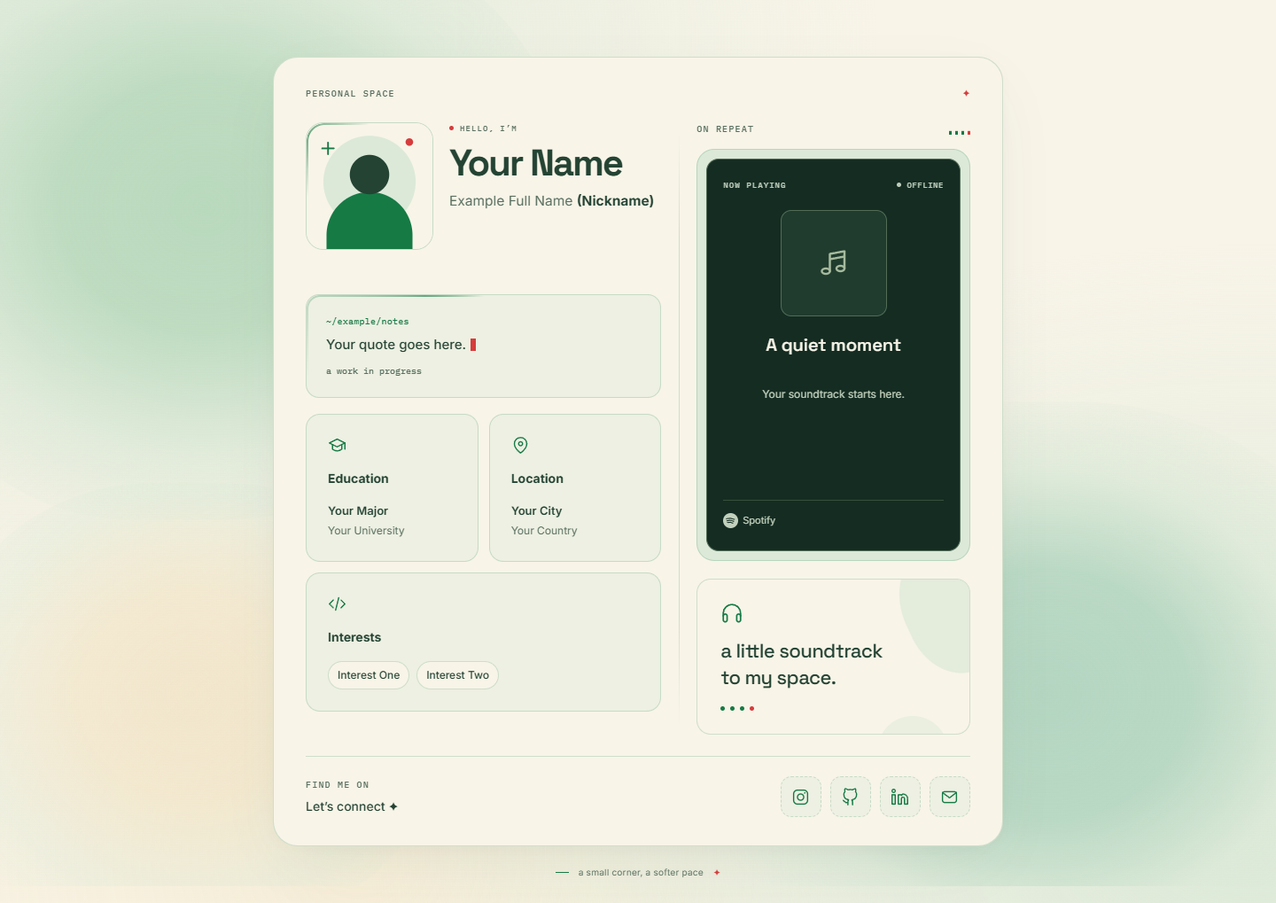
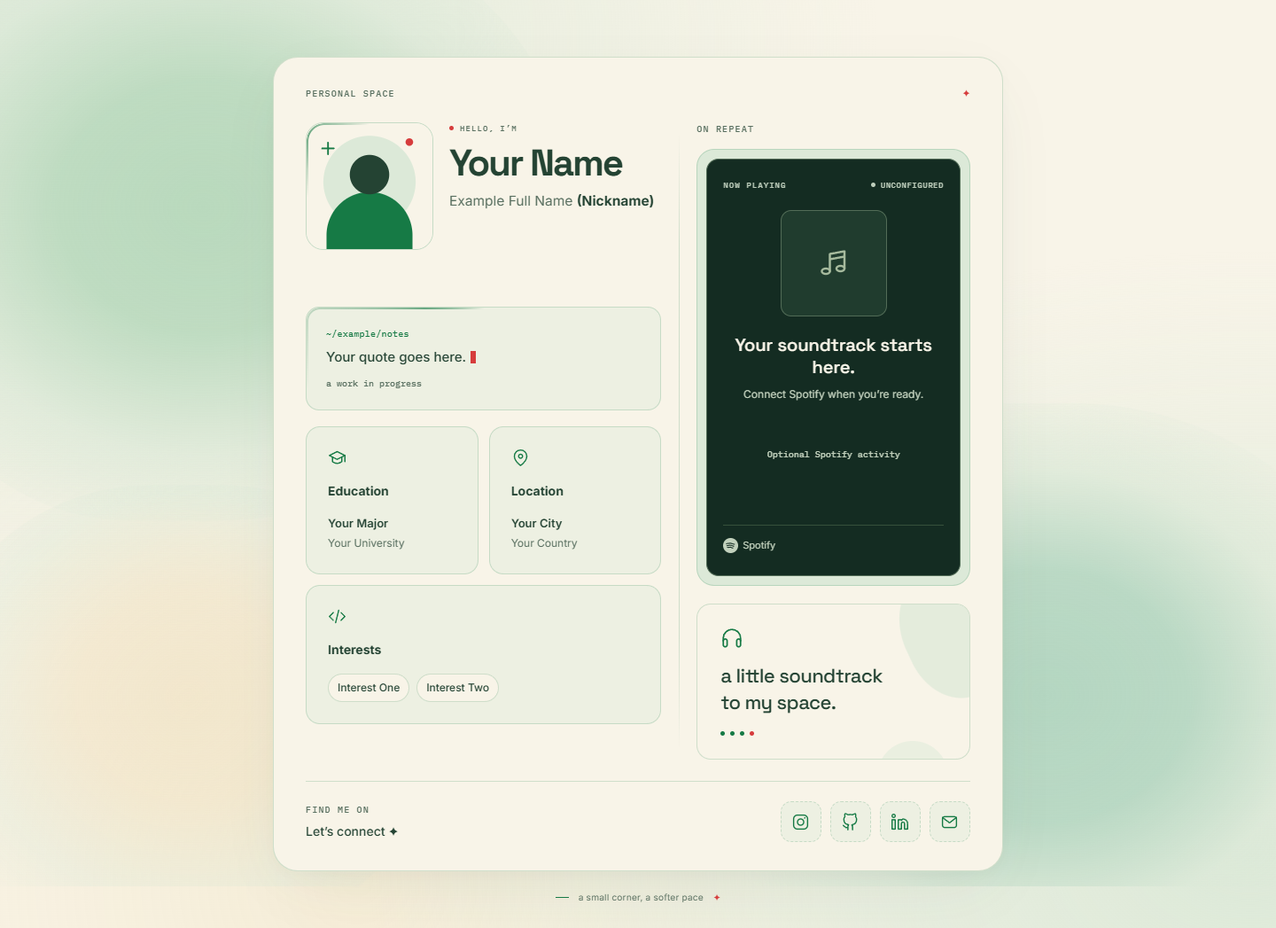
feat: add optional Spotify activity widget to template

diff --git a/src/scripts/spotify-now-playing.ts b/src/scripts/spotify-now-playing.ts
@@ -1,12 +1,16 @@
 import { emptyPlayback, FRESHNESS_MS, isFresh, parseNowPlaying, playbackProgress, type NowPlaying } from '../lib/spotify-now-playing';
 
+const mounts = new WeakMap<HTMLElement, () => void>();
+
 export function mountNowPlaying(root: HTMLElement): () => void {
-  // Disabled templates keep their server-rendered placeholder without polling.
   if (root.dataset.spotifyEnabled !== 'true') return () => {};
+  const mounted = mounts.get(root);
+  if (mounted) return mounted;
   const element = <T extends HTMLElement>(selector: string) => root.querySelector<T>(selector)!;
   const card = element('[data-live-card]');
   const stage = element('[data-track-stage]');
   const status = element('[data-status-text]');
+  const activity = element('[data-activity-detail]');
   const link = element<HTMLAnchorElement>('[data-spotify-link]');
   const progress = element('[data-progress]');
   const bar = element('[data-progress-bar]');
@@ -24,6 +28,7 @@ export function mountNowPlaying(root: HTMLElement): () => void {
   // failure / Retry-After imposes a deadline across tab visibility changes.
   let retryNotBefore = 0;
   let trackKey = '';
+  let unconfigured = false;
   const animations = new Set<Animation>();
   const formatTime = (ms: number) => `${Math.floor(ms / 60_000)}:${String(Math.floor(ms / 1000) % 60).padStart(2, '0')}`;
 
@@ -32,9 +37,12 @@ export function mountNowPlaying(root: HTMLElement): () => void {
       render(emptyPlayback('unavailable', Date.now()));
       return;
     }
-    const fresh = isFresh(snapshot, Date.now()) && !document.hidden;
+    const fresh = (snapshot.status === 'unconfigured' || isFresh(snapshot, Date.now())) && !document.hidden;
     card.dataset.status = fresh ? snapshot.status : 'unavailable';
-    status.textContent = fresh ? snapshot.status === 'playing' ? 'LIVE' : snapshot.status === 'unavailable' ? 'UNAVAILABLE' : 'OFFLINE' : 'UNAVAILABLE';
+    const state = card.dataset.status as NowPlaying['status'];
+    root.dataset.playbackStatus = state;
+    status.textContent = state === 'playing' ? 'LIVE' : state.toUpperCase();
+    activity.textContent = state === 'playing' ? 'Listening on Spotify' : state === 'paused' ? 'Playback paused' : state === 'offline' ? 'A quiet moment' : state === 'unconfigured' ? 'Optional Spotify activity' : 'Activity unavailable';
     const value = fresh ? playbackProgress(snapshot, Date.now()) : null;
     progress.hidden = value === null;
     link.hidden = !fresh || !snapshot.track;
@@ -72,9 +80,9 @@ export function mountNowPlaying(root: HTMLElement): () => void {
       outgoingImage.setAttribute('aria-hidden', 'true');
       img.before(outgoingImage);
     }
-    find('[data-track-title]').textContent = data.track?.title ?? 'A quiet moment';
+    find('[data-track-title]').textContent = data.track?.title ?? (data.status === 'offline' ? 'Not listening right now' : data.status === 'unconfigured' ? 'Your soundtrack starts here.' : 'Spotify is taking a break.');
     find('[data-track-title]').title = data.track?.title ?? '';
-    find('[data-track-artist]').textContent = data.track?.artists.join(', ') ?? (data.status === 'offline' ? 'Nothing playing right now.' : 'Listening status is unavailable.');
+    find('[data-track-artist]').textContent = data.track?.artists.join(', ') ?? (data.status === 'offline' ? 'probably building something.' : data.status === 'unconfigured' ? 'Connect Spotify when you’re ready.' : 'please try again later.');
     find('[data-track-artist]').title = data.track?.artists.join(', ') ?? '';
     const album = find('[data-track-album]');
     album.textContent = data.track?.album ?? '';
@@ -116,7 +124,9 @@ export function mountNowPlaying(root: HTMLElement): () => void {
   }
 
   function render(data: NowPlaying) {
-    snapshot = isFresh(data, Date.now()) ? data : emptyPlayback('unavailable', data.fetchedAt, data.retryAfterSeconds);
+    snapshot = data.status === 'unconfigured' || isFresh(data, Date.now()) ? data : emptyPlayback('unavailable', data.fetchedAt, data.retryAfterSeconds);
+    unconfigured = snapshot.status === 'unconfigured';
+    if (unconfigured) clearInterval(progressTimer);
     paintTrack(snapshot);
     if (snapshot.track) link.href = snapshot.track.spotifyUrl;
     else link.removeAttribute('href');
@@ -125,11 +135,11 @@ export function mountNowPlaying(root: HTMLElement): () => void {
 
   function schedule(delay: number) {
     clearTimeout(pollTimer);
-    if (!disposed && !document.hidden) pollTimer = setTimeout(poll, delay);
+    if (!disposed && !document.hidden && !unconfigured) pollTimer = setTimeout(poll, delay);
   }
 
   async function poll() {
-    if (disposed || document.hidden || controller) return;
+    if (disposed || document.hidden || controller || unconfigured) return;
     if (Date.now() < retryNotBefore) { schedule(retryNotBefore - Date.now()); return; }
     retryNotBefore = 0;
     const active = new AbortController();
@@ -178,9 +188,9 @@ export function mountNowPlaying(root: HTMLElement): () => void {
     clearInterval(progressTimer);
     controller?.abort();
     controller = null;
-    render(emptyPlayback('unavailable', Date.now()));
-    if (!document.hidden && !disposed) {
-      progressTimer = setInterval(updateProgress, 1000);
+    if (!unconfigured) render(emptyPlayback('unavailable', Date.now()));
+    if (!document.hidden && !disposed && !unconfigured) {
+      progressTimer = setInterval(updateProgress, 250);
       const remaining = retryNotBefore - Date.now();
       if (remaining > 0) schedule(remaining);
       else void poll();
@@ -189,6 +199,7 @@ export function mountNowPlaying(root: HTMLElement): () => void {
 
   function cleanup(preserveRestore = false) {
     disposed = true;
+    mounts.delete(root);
     clearTimeout(pollTimer);
     clearInterval(progressTimer);
     controller?.abort();
@@ -211,6 +222,7 @@ export function mountNowPlaying(root: HTMLElement): () => void {
   document.addEventListener('astro:before-swap', beforeSwap);
   window.addEventListener('pagehide', pageHide);
   window.addEventListener('pageshow', pageShow);
-  if (!document.hidden) { progressTimer = setInterval(updateProgress, 1000); void poll(); }
+  if (!document.hidden) { progressTimer = setInterval(updateProgress, 250); void poll(); }
+  mounts.set(root, cleanup);
   return cleanup;
 }

diff --git a/tests/browser/spotify-activity.spec.ts b/tests/browser/spotify-activity.spec.ts
@@ -1,0 +1,78 @@
+import { test, expect, type Page } from '@playwright/test';
+
+const title = '音楽と小さな世界 🎵 A very long Unicode song title '.repeat(8);
+const artworkUrl = 'https://i.scdn.co/image/abc123';
+const trackUrl = 'https://open.spotify.com/track/1234567890123456789012';
+
+async function mockActivity(page: Page, state: string) {
+  await page.route('**/', async route => {
+    if (route.request().resourceType() !== 'document') return route.continue();
+    const response = await route.fetch();
+    const body = (await response.text()).replace('data-spotify-enabled="false"', 'data-spotify-enabled="true"');
+    await route.fulfill({ response, body });
+  });
+  await page.route(artworkUrl, route => route.fulfill({ contentType: 'image/svg+xml', body:
+    '<svg xmlns="http://www.w3.org/2000/svg" width="120" height="120"><rect width="120" height="120" fill="#a7bda3"/><circle cx="60" cy="60" r="35" fill="#142c22"/><circle cx="60" cy="60" r="8" fill="#f7f1e3"/></svg>' }));
+  await page.route('**/api/spotify/now-playing', route => {
+    const track = state === 'playing' || state === 'paused' ? {
+      title, artists: ['Example Artist', '歌手 二'], album: 'An Example Album', artworkUrl, spotifyUrl: trackUrl,
+    } : null;
+    return route.fulfill({ status: state === 'unavailable' ? 503 : 200, json: {
+      status: state, track, progressMs: track ? 12000 : null, durationMs: track ? 180000 : null,
+      fetchedAt: Date.now(), retryAfterSeconds: 30,
+    } });
+  });
+}
+
+async function enter(page: Page) {
+  await page.goto('/');
+  await page.getByRole('button', { name: 'Enter my space' }).click();
+  await expect(page.locator('html')).toHaveAttribute('data-entry', 'entered');
+}
+
+for (const state of ['playing', 'paused', 'offline', 'unavailable']) {
+  test(`activity ${state} has accurate copy and animations`, async ({ page }, info) => {
+    await mockActivity(page, state);
+    await enter(page);
+    await expect(page.locator('[data-status-text]')).toHaveText(state === 'playing' ? 'LIVE' : state.toUpperCase());
+    const active = state === 'playing' || state === 'paused';
+    await expect(page.locator('[data-progress]')).toBeVisible({ visible: active });
+    await expect(page.locator('[data-spotify-link]')).toBeVisible({ visible: active });
+    await expect(page.locator('.live-dot')).toHaveCSS('animation-name', state === 'playing' ? 'live-pulse' : 'none');
+    await expect(page.locator('.equalizer')).toHaveCSS('visibility', state === 'playing' ? 'visible' : 'hidden');
+    if (active) {
+      await expect(page.locator('[data-artwork]:not([data-outgoing] *)')).toBeVisible();
+      await expect(page.locator('[data-track-artist]').last()).toHaveText('Example Artist, 歌手 二');
+      await expect(page.locator('[data-spotify-link]')).toHaveAttribute('href', trackUrl);
+      await expect(page.locator('[data-activity-detail]')).toHaveText(state === 'playing' ? 'Listening on Spotify' : 'Playback paused');
+    } else {
+      await expect(page.locator('[data-track-title]').last()).toHaveText(state === 'offline' ? 'Not listening right now' : 'Spotify is taking a break.');
+      await expect(page.locator('[data-track-artist]').last()).toHaveText(state === 'offline' ? 'probably building something.' : 'please try again later.');
+    }
+    await page.screenshot({ path: info.outputPath(`activity-${state}.png`), fullPage: true });
+  });
+}
+
+for (const width of [320, 390, 768, 1440]) {
+  test(`long Unicode activity fits ${width}px`, async ({ page }, info) => {
+    await page.setViewportSize({ width, height: 1000 });
+    await mockActivity(page, 'playing');
+    await enter(page);
+    await expect(page.locator('[data-status-text]')).toHaveText('LIVE');
+    await expect(page.locator('[data-track-title]').last()).toContainText('音楽');
+    expect(await page.evaluate(() => document.documentElement.scrollWidth <= window.innerWidth)).toBe(true);
+    const image = await page.locator('[data-artwork]:not([data-outgoing] *)').boundingBox();
+    expect(image).not.toBeNull();
+    expect(image!.width).toBe(image!.height);
+    await page.screenshot({ path: info.outputPath(`activity-${width}.png`), fullPage: true });
+  });
+}
+
+test('reduced motion disables LIVE pulse and progress transitions', async ({ page }) => {
+  await page.emulateMedia({ reducedMotion: 'reduce' });
+  await mockActivity(page, 'playing');
+  await enter(page);
+  await expect(page.locator('[data-status-text]')).toHaveText('LIVE');
+  await expect(page.locator('.live-dot')).toHaveCSS('animation-name', 'none');
+  await expect(page.locator('[data-progress-fill]')).toHaveCSS('transition-duration', '0s');
+});

diff --git a/src/lib/spotify-now-playing.ts b/src/lib/spotify-now-playing.ts
@@ -1,7 +1,7 @@
 /** Public contract only. This module is safe to share with the browser. */
 export const FRESHNESS_MS = 45_000;
 export interface NowPlaying {
-  status: 'playing' | 'paused' | 'offline' | 'unavailable';
+  status: 'playing' | 'paused' | 'offline' | 'unavailable' | 'unconfigured';
   track: {
     title: string;
     artists: string[];
@@ -30,11 +30,12 @@ export function spotifyArtworkUrl(value: unknown): string | null {
   return value;
 }
 
-export function emptyPlayback(status: 'offline' | 'unavailable', now: number, retryAfterSeconds = 30): NowPlaying {
+export function emptyPlayback(status: 'offline' | 'unavailable' | 'unconfigured', now: number, retryAfterSeconds = 30): NowPlaying {
   return { status, track: null, progressMs: null, durationMs: null, fetchedAt: now, retryAfterSeconds };
 }
 
-const text = (value: unknown): string => typeof value === 'string' ? value.trim().slice(0, 300) : '';
+// Slice by Unicode code point so a long title never ends in half a surrogate pair.
+const text = (value: unknown): string => typeof value === 'string' ? Array.from(value.trim()).slice(0, 300).join('') : '';
 const milliseconds = (value: unknown): value is number => Number.isSafeInteger(value) && (value as number) >= 0;
 
 /** Allowlist fields rather than passing a private Spotify response to visitors. */
@@ -43,7 +44,8 @@ export function sanitizePlayback(value: unknown, now: number): NowPlaying {
   const data = value as Record<string, any>;
   if (data.device?.is_private_session === true) return emptyPlayback('offline', now);
   if (typeof data.is_playing !== 'boolean') return emptyPlayback('unavailable', now);
-  if (!data.item) return emptyPlayback(data.is_playing ? 'unavailable' : 'offline', now);
+  if (data.item === null && data.is_playing === false && data.currently_playing_type !== 'ad' && data.currently_playing_type !== 'episode') return emptyPlayback('offline', now);
+  if (!data.item || typeof data.item !== 'object') return emptyPlayback('unavailable', now);
   const item = data.item;
   if (data.currently_playing_type !== 'track' || item.type !== 'track' || item.is_local === true) return emptyPlayback('unavailable', now);
   const url = spotifyTrackUrl(item.external_urls?.spotify);
@@ -77,11 +79,14 @@ export function playbackProgress(data: NowPlaying, now: number): number | null {
 export function parseNowPlaying(value: unknown): NowPlaying | null {
   if (!value || typeof value !== 'object') return null;
   const data = value as NowPlaying;
-  if (!['playing', 'paused', 'offline', 'unavailable'].includes(data.status) || !Number.isFinite(data.fetchedAt) ||
+  if (!['playing', 'paused', 'offline', 'unavailable', 'unconfigured'].includes(data.status) || !Number.isFinite(data.fetchedAt) ||
       !Number.isFinite(data.retryAfterSeconds) || data.retryAfterSeconds < 0) return null;
-  if (data.status === 'offline' || data.status === 'unavailable') return emptyPlayback(data.status, data.fetchedAt, data.retryAfterSeconds);
+  if (data.status === 'offline' || data.status === 'unavailable' || data.status === 'unconfigured') return emptyPlayback(data.status, data.fetchedAt, data.retryAfterSeconds);
   if (!data.track || !text(data.track.title) || !Array.isArray(data.track.artists) || !data.track.artists.length ||
-      !data.track.artists.every(artist => typeof artist === 'string') || !spotifyTrackUrl(data.track.spotifyUrl)) return null;
-  return { ...data, track: { title: text(data.track.title), artists: data.track.artists.map(text).slice(0, 12), album: text(data.track.album),
+      !data.track.artists.every(artist => typeof artist === 'string' && text(artist)) || !spotifyTrackUrl(data.track.spotifyUrl)) return null;
+  const validProgress = milliseconds(data.progressMs) && milliseconds(data.durationMs) && data.durationMs > 0 && data.progressMs <= data.durationMs;
+  return { status: data.status, fetchedAt: data.fetchedAt, retryAfterSeconds: data.retryAfterSeconds,
+    progressMs: validProgress ? data.progressMs : null, durationMs: validProgress ? data.durationMs : null,
+    track: { title: text(data.track.title), artists: data.track.artists.map(text).slice(0, 12), album: text(data.track.album),
     spotifyUrl: spotifyTrackUrl(data.track.spotifyUrl)!, artworkUrl: spotifyArtworkUrl(data.track.artworkUrl) } };
 }

diff --git a/tests/browser/portfolio.spec.ts b/tests/browser/portfolio.spec.ts
@@ -22,7 +22,7 @@ test('welcome, keyboard lightbox, safe empty socials, and disabled music', async
   await expect(page.locator('.welcome-period')).toHaveCSS('animation-name', 'period-blink');
   await enter(page);
   await expect(page.getByText('Your Name', { exact: true })).toBeVisible();
-  await expect(page.locator('[data-status-text]')).toHaveText('OFFLINE');
+  await expect(page.locator('[data-status-text]')).toHaveText('UNCONFIGURED');
   await expect(page.locator('[data-artwork]')).toBeHidden();
   await expect(page.locator('[data-progress]')).toBeHidden();
   await expect(page.locator('[data-spotify-link]')).toBeHidden();
@@ -85,7 +85,7 @@ test('content is readable without JavaScript', async ({ browser }) => {
   const page = await context.newPage();
   await page.goto('http://127.0.0.1:4325');
   await expect(page.getByText('Your Name', { exact: true })).toBeVisible();
-  await expect(page.locator('[data-status-text]')).toHaveText('OFFLINE');
+  await expect(page.locator('[data-status-text]')).toHaveText('UNCONFIGURED');
   await context.close();
 });
 
@@ -109,7 +109,7 @@ for (const status of ['playing', 'paused', 'offline', 'unavailable'] as const) {
     });
     await page.goto('/');
     await enter(page);
-    await expect(page.locator('[data-status-text]')).toHaveText(status === 'playing' ? 'LIVE' : status === 'unavailable' ? 'UNAVAILABLE' : 'OFFLINE');
+    await expect(page.locator('[data-status-text]')).toHaveText(status === 'playing' ? 'LIVE' : status.toUpperCase());
     if (status === 'playing' || status === 'paused') {
       await expect(page.locator('[data-track-title]').last()).toHaveText('Example Track');
       await expect(page.locator('[data-progress]')).toBeVisible();

diff --git a/src/lib/spotify-server.ts b/src/lib/spotify-server.ts
@@ -56,10 +56,13 @@ export function createSpotifyService(readSecrets: () => SpotifySecrets, dependen
 
   async function load(): Promise<Result> {
     if (dependencies.enabled && !dependencies.enabled()) {
-      return { data: emptyPlayback('offline', now()), httpStatus: 200, cacheSeconds: 0 };
+      return { data: emptyPlayback('unconfigured', now(), 0), httpStatus: 200, cacheSeconds: 0 };
     }
     const secrets = readSecrets();
-    if (!secrets.clientId || !secrets.clientSecret || !secrets.refreshToken || permanentlyUnavailable) {
+    if (!secrets.clientId || !secrets.clientSecret || !secrets.refreshToken) {
+      return { data: emptyPlayback('unconfigured', now(), 0), httpStatus: 200, cacheSeconds: 300 };
+    }
+    if (permanentlyUnavailable) {
       return { data: emptyPlayback('unavailable', now(), 300), httpStatus: 503, cacheSeconds: 60 };
     }
     try {
@@ -77,7 +80,7 @@ export function createSpotifyService(readSecrets: () => SpotifySecrets, dependen
       if (!response.ok) throw new SpotifyFailure();
       const data = response.status === 204 ? emptyPlayback('offline', now()) : sanitizePlayback(await response.json(), now());
       failures = 0;
-      return { data, httpStatus: 200, cacheSeconds: 5 };
+      return { data, httpStatus: 200, cacheSeconds: 15 };
     } catch (error) {
       failures += 1;
       const failure = error instanceof SpotifyFailure ? error : new SpotifyFailure();

diff --git a/src/data/site.ts b/src/data/site.ts
@@ -43,7 +43,7 @@ export const site = {
   ] satisfies InfoCardData[],
   music: {
     // Opt in only after authorizing YOUR account. Secrets belong in .env.local.
-    // false: static site, OFFLINE placeholder, and no Spotify requests.
+    // false: static site, UNCONFIGURED placeholder, and no Spotify requests.
     enabled: false,
     // Decorative music note; independent of Spotify configuration.
     tagline: 'a little soundtrack to my space.',

diff --git a/README.md b/README.md
@@ -14,7 +14,7 @@ A cream-and-green portfolio for students, developers, and creatives who want a s
 - Soft Terminal Quote Widget with a customizable path, quote, and footer.
 - Instagram, GitHub, LinkedIn, and Email icons with tooltips and hover effects.
 - Ambient green blobs, mouse parallax, and reduced-motion support.
-- Optional forest-green Spotify Now Playing card with artwork, track details, approximate playback progress, and LIVE / OFFLINE / UNAVAILABLE states.
+- Optional Discord-inspired forest-green Spotify Activity card with artwork, track details, approximate playback progress, and LIVE / PAUSED / OFFLINE / UNAVAILABLE states.
 - Decorative music note card, missing-image fallbacks, and readable content without JavaScript.
 
 ## Tech Stack
@@ -50,6 +50,7 @@ Open the URL printed by Astro, normally `http://localhost:4321`.
 ```sh
 npm run check                 # Astro and TypeScript validation
 npm test                      # Unit tests with mock Spotify responses
+npx tsc --noEmit              # Independent TypeScript validation
 npx playwright install chromium --no-shell
 npm run test:browser          # Headless UI and responsive checks
 npm run build                 # Production build
@@ -102,7 +103,7 @@ Destinations default to `null`. Empty, missing, or unsafe URLs render disabled i
 
 ## Spotify Now Playing — Optional
 
-The default `site.music.enabled: false` shows a polished **OFFLINE** placeholder. It makes no Spotify requests, shows no fake track or LIVE badge, and needs no credentials.
+The default `site.music.enabled: false` shows a polished **UNCONFIGURED** placeholder. It makes no Spotify requests, shows no fake track or LIVE badge, and needs no credentials.
 
 To opt in:
 
@@ -113,9 +114,21 @@ To opt in:
 
 Development Mode currently requires the app owner to have **Spotify Premium**. New apps are limited to one Client ID per developer and five authorized users; authorized accounts must be allowlisted. Existing apps may retain grandfathered limits. Check [Spotify's quota modes](https://developer.spotify.com/documentation/web-api/concepts/quota-modes) and [migration guide](https://developer.spotify.com/documentation/web-api/tutorials/february-2026-migration-guide) before setup.
 
-The card refreshes about every 30 seconds while the page is visible. It interpolates valid API progress between snapshots, freezes paused progress, and clears stale LIVE data. Paused or absent playback shows **OFFLINE**; missing credentials, unsupported content, authorization failures, and network errors show **UNAVAILABLE**. Artwork failures keep the generic music icon. No playback controls, listening history, or playlist embedding are included.
+The Discord-like activity refreshes about every 30 seconds while the page is visible. Valid progress advances smoothly between confirmed snapshots and freezes when paused. The LIVE claim expires after 45 seconds without confirmation. Track details crossfade in 250ms; the LIVE dot pulses every 4.5 seconds. Reduced motion disables these animations.
 
-Spotify refresh tokens now expire after six months. For expired/revoked authorization or token rotation, rerun the helper, replace the Vercel secret, and redeploy. See [Spotify's expiration guidance](https://developer.spotify.com/blog/2026-06-18-refresh-token-expiration) and the [setup and troubleshooting guide](docs/spotify-now-playing.md). Set `enabled` back to `false` and rebuild to disable the integration.
+| State | Display |
+| --- | --- |
+| LIVE | Confirmed playback, real metadata/artwork, read-only progress, and Open in Spotify |
+| PAUSED | Confirmed track, muted yellow indicator, and frozen progress |
+| OFFLINE | “Not listening right now” / “probably building something.” |
+| UNAVAILABLE | “Spotify is taking a break.” / “please try again later.” |
+| UNCONFIGURED | Generic placeholder; no fake track, progress, or LIVE badge |
+
+Missing credentials stop polling after one configuration check until reload. A disabled widget makes no request. Artwork failures retain the generic music icon. This feature includes no playback controls, listening history, streaming, or playlist embedding.
+
+A 15-second server cache, request deduplication, and Vercel shared CDN caching reduce upstream calls across visitors. Hidden pages stop polling. Failures back off and respect Spotify `Retry-After`, including delays longer than five minutes. CDN caches are regional, so cold instances can still make additional upstream requests. The feature is near real-time polling, not instant push notifications.
+
+Spotify refresh tokens now expire after six months. For expired/revoked authorization or token rotation, rerun the helper, replace the Vercel secret, and redeploy. See [Spotify's expiration guidance](https://developer.spotify.com/blog/2026-06-18-refresh-token-expiration) and the [setup and troubleshooting guide](docs/spotify-now-playing.md). Set `site.music.enabled` back to `false` and rebuild to disable the integration. To run without Spotify, leave it false, skip OAuth and environment setup, and use the standard installation/build commands. After adding credentials to an enabled deployment, reload the page to restart polling.
 
 Enabling this feature publishes your current track metadata to site visitors. Only authorize an account whose current listening information you intend to share.
 

diff --git a/docs/spotify-now-playing.md b/docs/spotify-now-playing.md
@@ -1,6 +1,6 @@
 # Optional Spotify Now Playing
 
-Start with `site.music.enabled: false` in `src/data/site.ts`. This produces a static portfolio with a generic OFFLINE card and no Spotify requests. All credentials belong to the person customizing the template.
+Start with `site.music.enabled: false` in `src/data/site.ts`. This produces a static portfolio with a generic UNCONFIGURED card and no Spotify requests. All credentials belong to the person customizing the template.
 
 ## Create and authorize your app
 
@@ -18,7 +18,7 @@ The only requested permission is [`user-read-currently-playing`](https://develop
 
 Add `SPOTIFY_CLIENT_ID`, `SPOTIFY_CLIENT_SECRET`, and `SPOTIFY_REFRESH_TOKEN` to your own Vercel project's environment settings, selecting the environments where the widget should run. Rebuild after enabling it. The homepage remains prerendered; `/api/spotify/now-playing` becomes an on-demand Vercel function. Use the Astro preset and leave the output-directory override unset in enabled mode.
 
-Only sanitized track title, artists, album, artwork URL, Spotify track link, status, and progress reach visitors. Tokens, device information, raw API errors, and user account fields stay server-side. Your current listening metadata becomes public when enabled. The integration uses a short shared cache and request deduplication to limit upstream calls.
+Only sanitized track title, artists, album, artwork URL, Spotify track link, status, and progress reach visitors. Tokens, device information, raw API errors, and user account fields stay server-side. Your current listening metadata becomes public when enabled. The integration uses a 15-second shared cache and request deduplication to limit upstream calls.
 
 The default disabled mode builds to `dist/` and works with `npm run preview`. Enabled Vercel builds use `.vercel/output/`; test the API locally with `npm run dev` because `astro preview` is unsupported by this adapter. No production project is created by this repository's scripts.
 
@@ -28,11 +28,12 @@ Use Vercel's Git-based build for deployment. Local server bundles can contain As
 
 | State | Behavior |
 | --- | --- |
-| Disabled | Generic OFFLINE card; no polling, secret reads, or Spotify calls |
+| Disabled | Generic UNCONFIGURED card; no polling, secret reads, or Spotify calls |
 | Playing | LIVE, current artwork and track link; progress only for valid API values |
-| Paused | OFFLINE; paused metadata can remain and progress freezes |
+| Paused | PAUSED; paused metadata can remain and progress freezes |
 | No playback / private session | OFFLINE placeholder without track metadata |
-| Missing credentials / errors | UNAVAILABLE placeholder without a fake LIVE indicator |
+| Missing credentials | UNCONFIGURED; no fake track, polling stops until reload |
+| Authorization / network errors | UNAVAILABLE; no fake LIVE indicator |
 | Unsupported local track or episode | UNAVAILABLE instead of invented track data |
 
 The browser polls about every 30 seconds while visible, pauses polling when hidden, honors `Retry-After`, and backs off after failures. Snapshots expire after 45 seconds, so stale results cannot retain LIVE. Artwork load failures show the existing music icon. Progress is approximate between API snapshots and reconciles on each response.
@@ -45,4 +46,4 @@ To disable, set `enabled: false`, rebuild, and remove the production secrets if 
 
 ## Verification
 
-Run `npm run check`, `npm test`, `npm run test:browser`, and `npm run build`. Tests use fabricated Spotify metadata and mocked HTTP responses; passing tests does not establish that your account is authorized. Verify your own account separately after setup, then inspect both source and production output before publishing.
+Run `npm run check`, `npx tsc --noEmit`, `npm test`, `npm run test:browser`, and `npm run build`. Tests use fabricated Spotify metadata and mocked HTTP responses; passing tests does not establish that your account is authorized. Verify your own account separately after setup, then inspect both source and production output before publishing.
